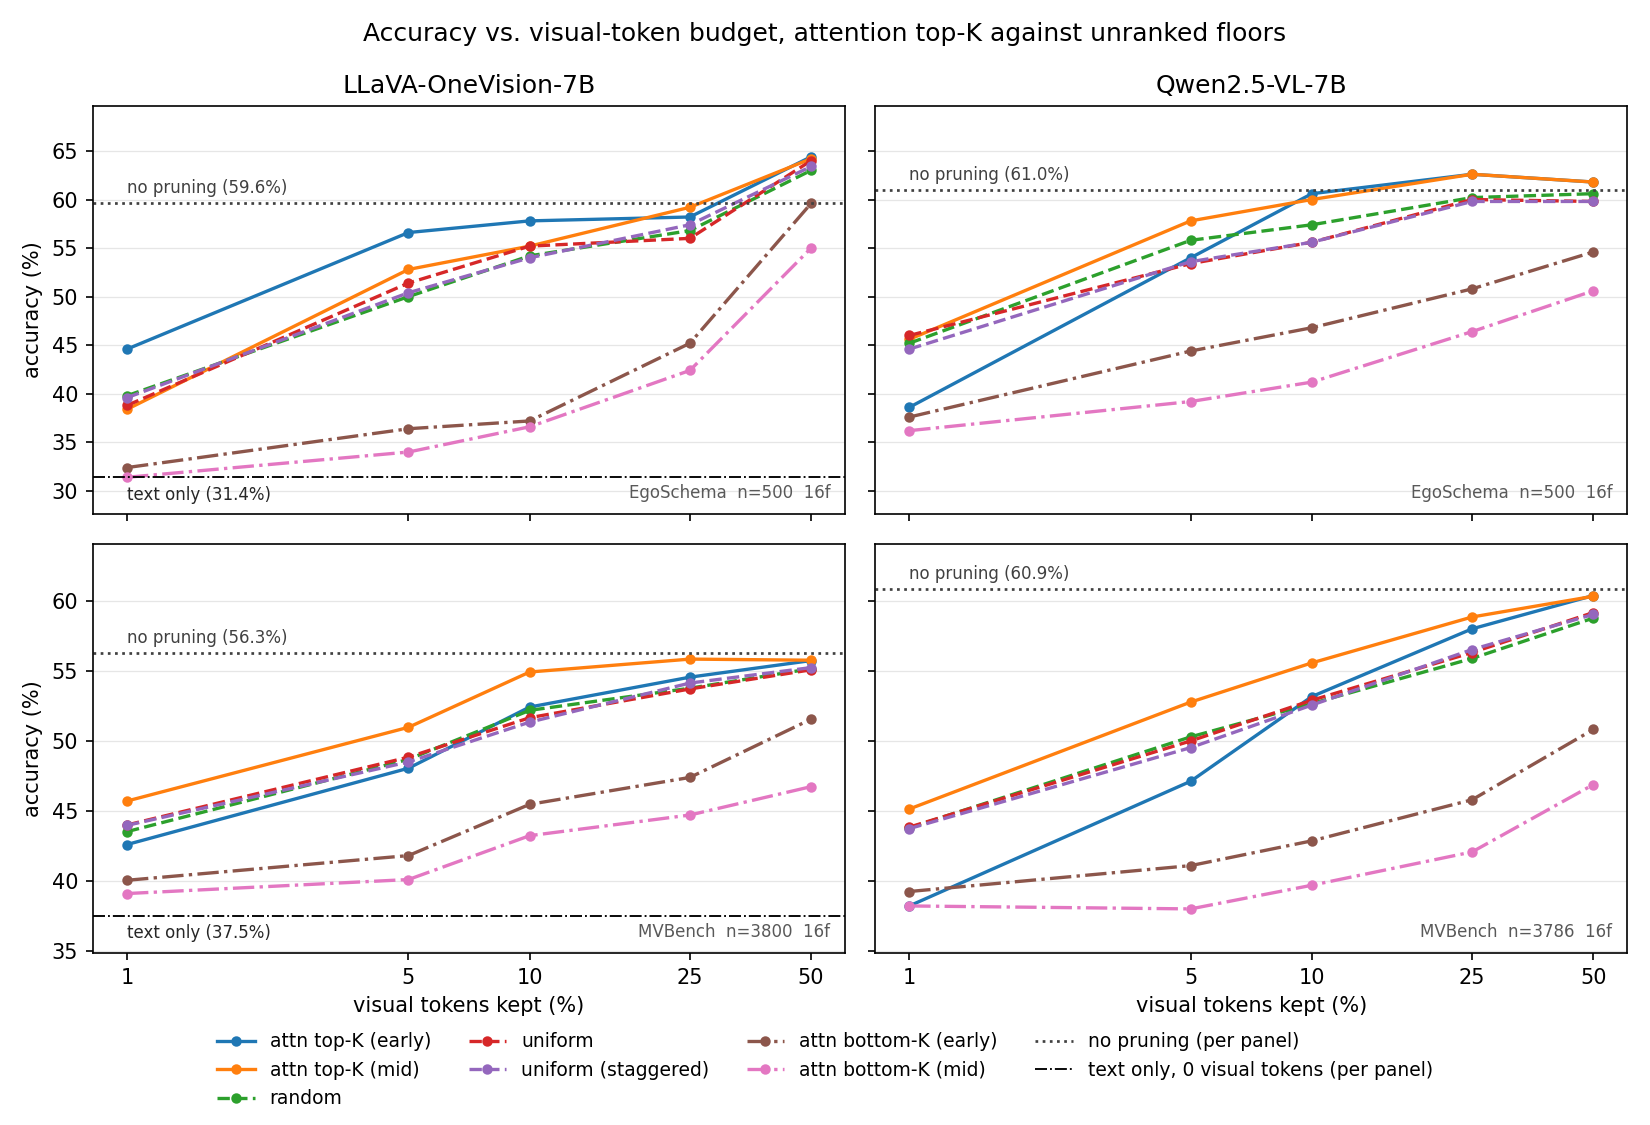
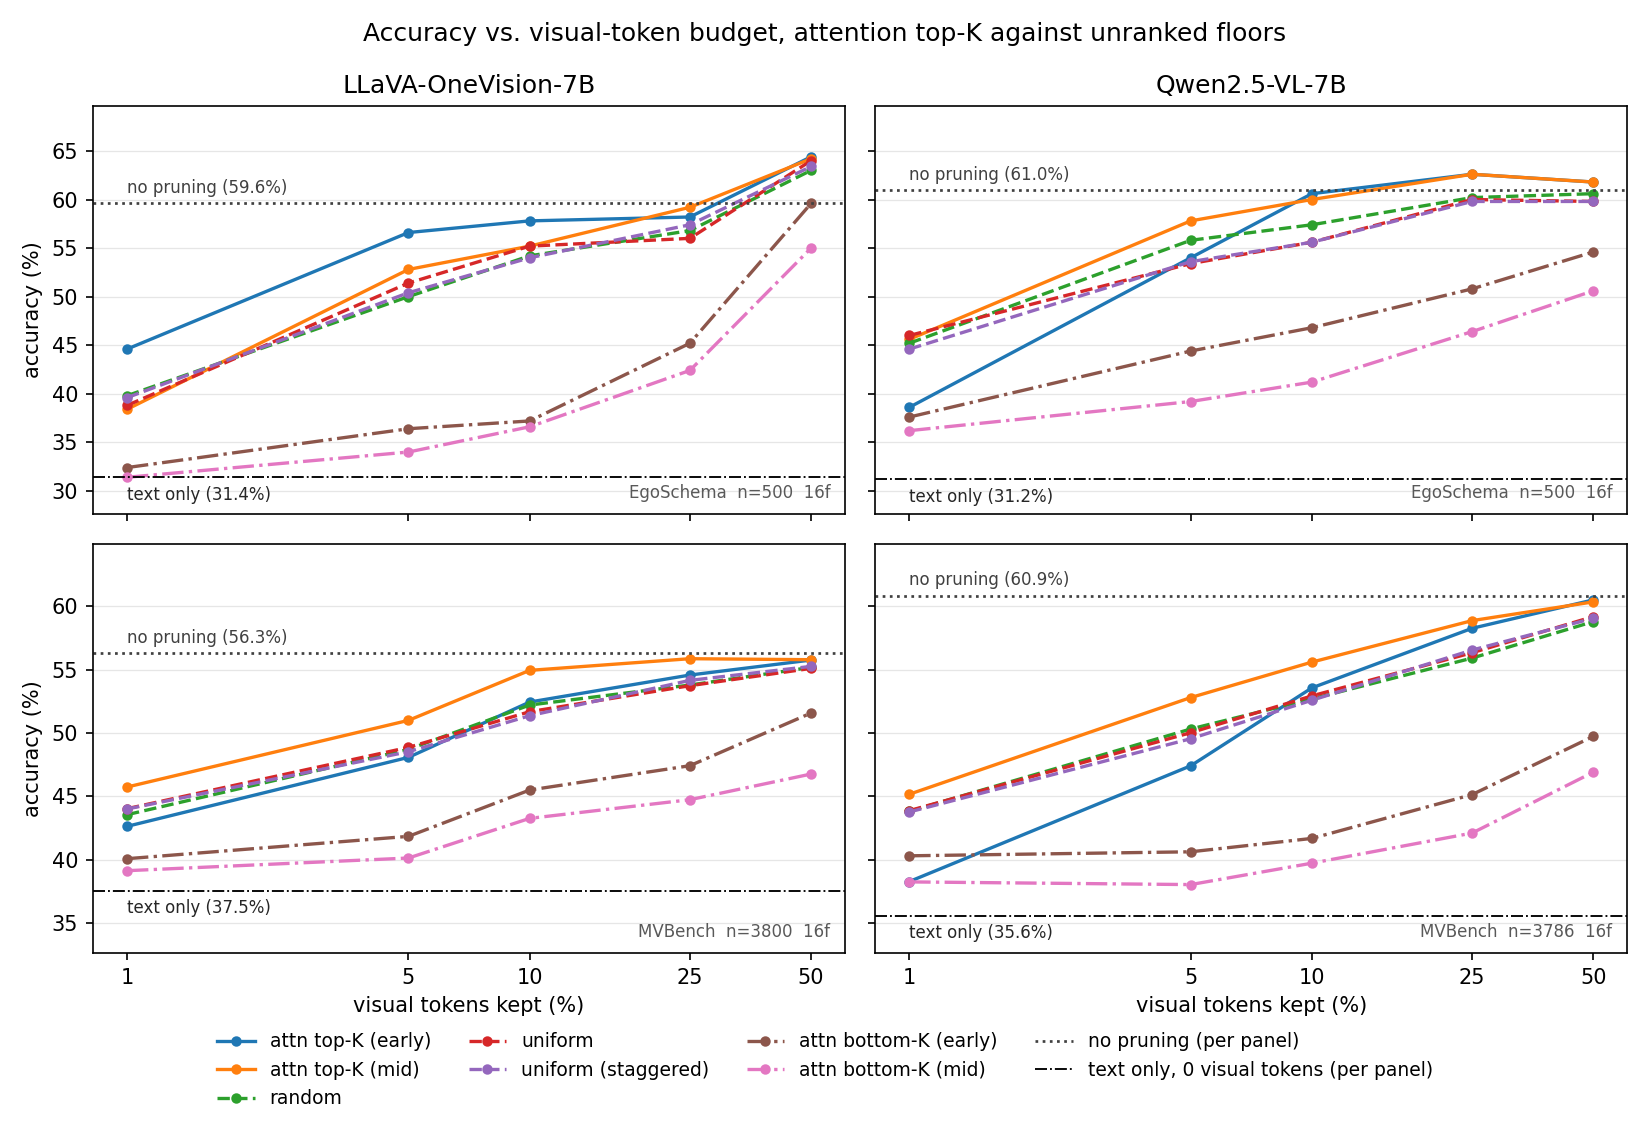
updated final top-k results

diff --git a/final_expt_scripts/plot_scripts/plot_topk_panels.py b/final_expt_scripts/plot_scripts/plot_topk_panels.py
@@ -277,8 +277,8 @@ def parse_args():
     # comes from its own standalone run; 'none' leaves that panel without one.
     p.add_argument("--floor_llava_ego", default=f"{RESULTS}/floor_ego_llavaov.json")
     p.add_argument("--floor_llava_mvb", default=f"{RESULTS}/floor_mvb_llavaov.json")
-    p.add_argument("--floor_qwen_ego", default="none")
-    p.add_argument("--floor_qwen_mvb", default="none")
+    p.add_argument("--floor_qwen_ego", default=f"{RESULTS}/floor_ego_qwen.json")
+    p.add_argument("--floor_qwen_mvb", default=f"{RESULTS}/floor_mvb_qwen.json")
     p.add_argument("--y", choices=["accuracy", "retention"], default="accuracy",
                    help="retention = accuracy / that panel's no-pruning accuracy.")
     p.add_argument("--share_y", choices=["row", "all", "none"], default="row",
